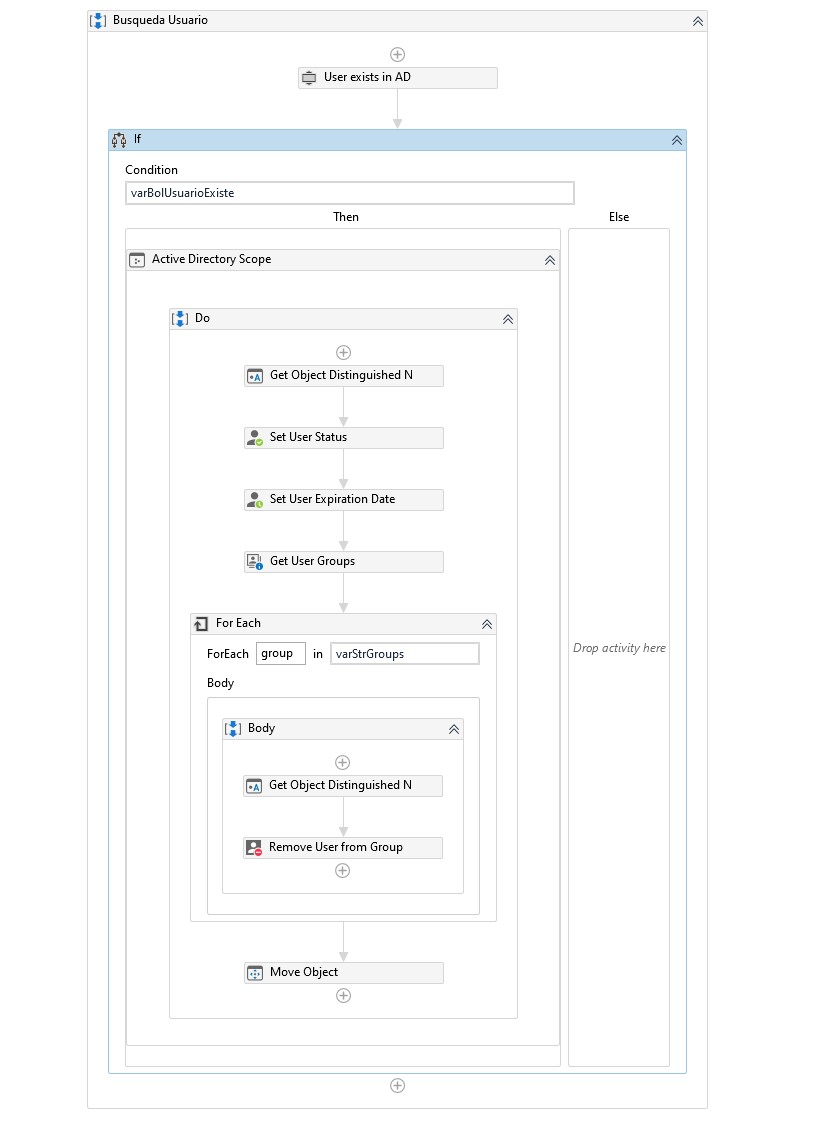
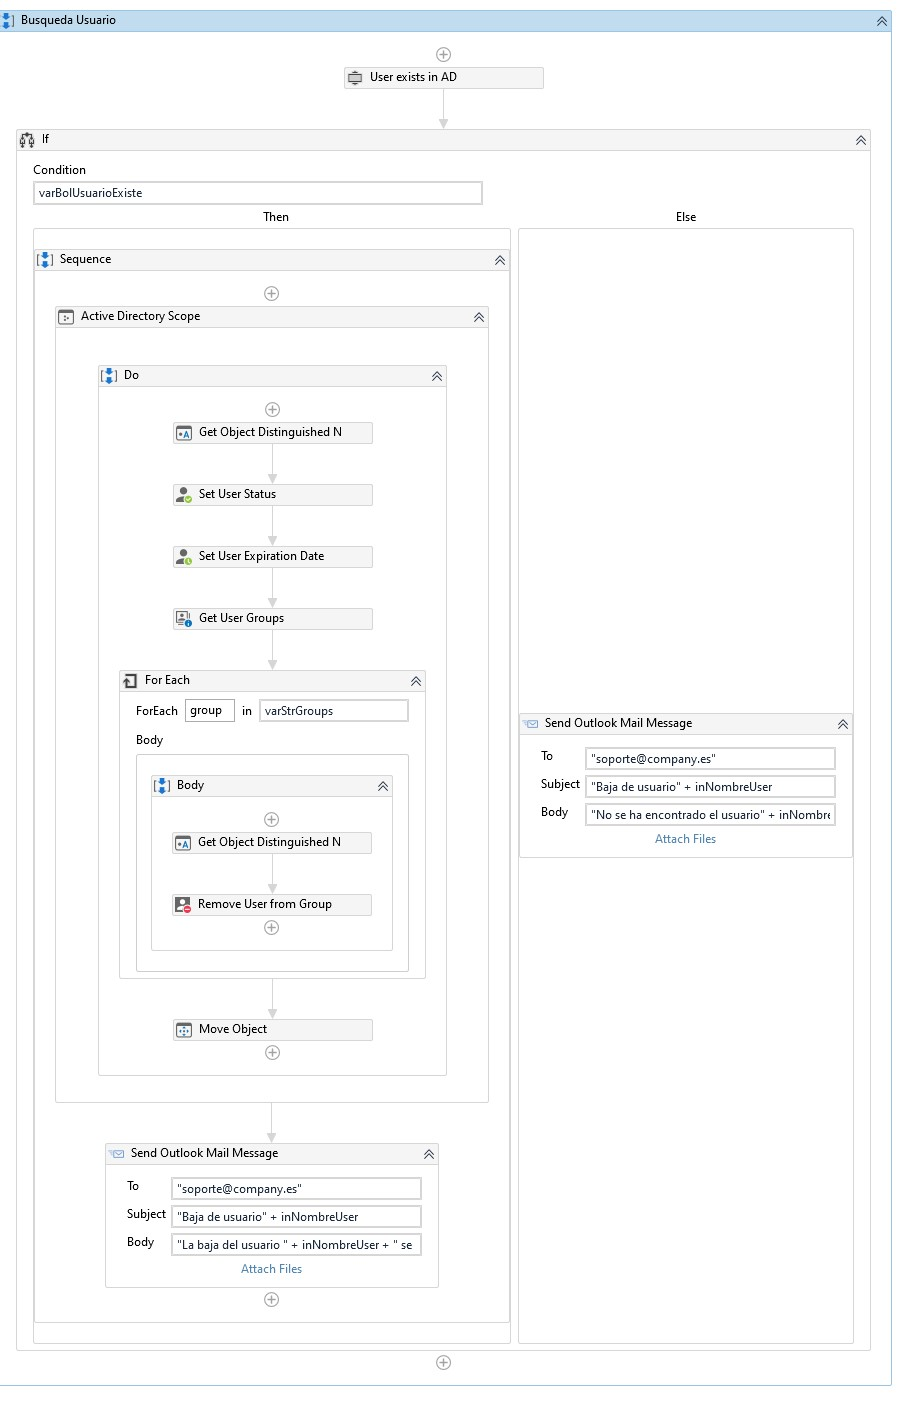
Se realizan cambios

diff --git a/bajaUsuario.xaml b/bajaUsuario.xaml
@@ -7,7 +7,7 @@
   <mva:VisualBasic.Settings>
     <x:Null />
   </mva:VisualBasic.Settings>
-  <sap:VirtualizedContainerService.HintSize>795,1164</sap:VirtualizedContainerService.HintSize>
+  <sap:VirtualizedContainerService.HintSize>887,1441</sap:VirtualizedContainerService.HintSize>
   <sap2010:WorkflowViewState.IdRef>Busqueda_usuario_1</sap2010:WorkflowViewState.IdRef>
   <TextExpression.NamespacesForImplementation>
     <scg:List x:TypeArguments="x:String" Capacity="26">
@@ -68,36 +68,16 @@
       <x:Boolean x:Key="ShouldExpandAll">True</x:Boolean>
     </scg:Dictionary>
   </sap:WorkflowViewStateService.ViewState>
-  <Sequence DisplayName="Busqueda Usuario" sap:VirtualizedContainerService.HintSize="621,1099" sap2010:WorkflowViewState.IdRef="Sequence_1">
+  <Sequence DisplayName="Busqueda Usuario" sap:VirtualizedContainerService.HintSize="897,1376" sap2010:WorkflowViewState.IdRef="Sequence_1">
     <Sequence.Variables>
-      <Variable x:TypeArguments="x:String" Name="varStrpassword">
-        <Variable.Default>
-          <mva:VisualBasicValue x:TypeArguments="x:String" ExpressionText="in_Config(&quot;PassDominio&quot;).ToString" />
-        </Variable.Default>
-      </Variable>
-      <Variable x:TypeArguments="ss:SecureString" Name="varStrpasswordSecure">
-        <Variable.Default>
-          <mva:VisualBasicValue x:TypeArguments="ss:SecureString" ExpressionText="(new System.Net.NetworkCredential(&quot;&quot;, varStrpassword)).SecurePassword" />
-        </Variable.Default>
-      </Variable>
-      <Variable x:TypeArguments="x:String" Name="varStrUsername">
-        <Variable.Default>
-          <mva:VisualBasicValue x:TypeArguments="x:String" ExpressionText="in_Config(&quot;UserDominio&quot;).ToString" />
-        </Variable.Default>
-      </Variable>
+      <Variable x:TypeArguments="x:String" Default="[in_Config(&quot;PassDominio&quot;).ToString]" Name="varStrpassword" />
+      <Variable x:TypeArguments="ss:SecureString" Default="[(new System.Net.NetworkCredential(&quot;&quot;, varStrpassword)).SecurePassword]" Name="varStrpasswordSecure" />
+      <Variable x:TypeArguments="x:String" Default="[in_Config(&quot;UserDominio&quot;).ToString]" Name="varStrUsername" />
       <Variable x:TypeArguments="x:Boolean" Name="existe" />
       <Variable x:TypeArguments="s:String[]" Name="grupos" />
       <Variable x:TypeArguments="x:String" Default="[Datetime.Now.Tostring(“MMMM”)]" Name="varStrMonthOU" />
-      <Variable x:TypeArguments="x:String" Name="varStrUsuariosBorrarOU">
-        <Variable.Default>
-          <mva:VisualBasicValue x:TypeArguments="x:String" ExpressionText="in_Config(&quot;UsuariosBorrarOU&quot;).ToString + varStrmonthOU" />
-        </Variable.Default>
-      </Variable>
-      <Variable x:TypeArguments="x:String" Name="varStrADServer">
-        <Variable.Default>
-          <mva:VisualBasicValue x:TypeArguments="x:String" ExpressionText="in_Config(&quot;ControladorDominio&quot;).ToString" />
-        </Variable.Default>
-      </Variable>
+      <Variable x:TypeArguments="x:String" Default="[in_Config(&quot;UsuariosBorrarOU&quot;).ToString + varStrmonthOU]" Name="varStrUsuariosBorrarOU" />
+      <Variable x:TypeArguments="x:String" Default="[in_Config(&quot;ControladorDominio&quot;).ToString]" Name="varStrADServer" />
       <Variable x:TypeArguments="x:Boolean" Name="varBolUsuarioExiste" />
       <Variable x:TypeArguments="x:String" Name="varStrUserDistName" />
       <Variable x:TypeArguments="s:String[]" Name="varStrGroups" />
@@ -107,52 +87,71 @@
         <x:Boolean x:Key="IsExpanded">True</x:Boolean>
       </scg:Dictionary>
     </sap:WorkflowViewStateService.ViewState>
-    <a:UserExistsInAD UserEmail="{x:Null}" DisplayName="User exists in AD" DomainName="[varStrADServer]" sap:VirtualizedContainerService.HintSize="579,22" sap2010:WorkflowViewState.IdRef="UserExistsInAD_1" Result="[varBolUsuarioExiste]" UserName="[inNombreUser]" />
-    <If Condition="[varBolUsuarioExiste]" sap:VirtualizedContainerService.HintSize="579,945" sap2010:WorkflowViewState.IdRef="If_1">
+    <a:UserExistsInAD UserEmail="{x:Null}" DisplayName="User exists in AD" DomainName="[varStrADServer]" sap:VirtualizedContainerService.HintSize="855,22" sap2010:WorkflowViewState.IdRef="UserExistsInAD_1" Result="[varBolUsuarioExiste]" UserName="[inNombreUser]" />
+    <If Condition="[varBolUsuarioExiste]" sap:VirtualizedContainerService.HintSize="855,1222" sap2010:WorkflowViewState.IdRef="If_1">
       <If.Then>
-        <p:ActiveDirectoryScope ActiveDirectoryServer="[varStrADServer]" DisplayName="Active Directory Scope" sap:VirtualizedContainerService.HintSize="434,797" sap2010:WorkflowViewState.IdRef="ActiveDirectoryScope_1" Password="[varStrpasswordSecure]" Username="[varStrUsername]">
-          <p:ActiveDirectoryScope.Body>
-            <ActivityAction x:TypeArguments="uas:ActiveDirectoryService">
-              <ActivityAction.Argument>
-                <DelegateInArgument x:TypeArguments="uas:ActiveDirectoryService" Name="ActiveDirectoryScopeConnectionName" />
-              </ActivityAction.Argument>
-              <Sequence DisplayName="Do" sap:VirtualizedContainerService.HintSize="349,711" sap2010:WorkflowViewState.IdRef="Sequence_3">
-                <sap:WorkflowViewStateService.ViewState>
-                  <scg:Dictionary x:TypeArguments="x:String, x:Object">
-                    <x:Boolean x:Key="IsExpanded">True</x:Boolean>
-                  </scg:Dictionary>
-                </sap:WorkflowViewStateService.ViewState>
-                <p:GetObjectDistinguishedName DisplayName="Get Object Distinguished Name" DistinguishedName="[varStrUserDistName]" sap:VirtualizedContainerService.HintSize="307,22" sap2010:WorkflowViewState.IdRef="GetObjectDistinguishedName_2" SAMAccountName="[inNombreUser]" />
-                <p:SetUserStatus DisplayName="Set User Status" DistinguishedName="[varStrUserDistName]" sap:VirtualizedContainerService.HintSize="307,22" sap2010:WorkflowViewState.IdRef="SetUserStatus_1" Status="Disabled" />
-                <p:SetUserExpirationDate DisplayName="Set User Expiration Date" DistinguishedName="[inNombreUser]" ExpirationDate="[in_fechaFinal]" sap:VirtualizedContainerService.HintSize="307,22" sap2010:WorkflowViewState.IdRef="SetUserExpirationDate_1" />
-                <p:GetUserGroups DisplayName="Get User Groups" Groups="[varStrGroups]" sap:VirtualizedContainerService.HintSize="307,22" sap2010:WorkflowViewState.IdRef="GetUserGroups_1" UserDistinguishedName="[varStrUserDistName]" />
-                <ui:ForEach x:TypeArguments="x:Object" CurrentIndex="{x:Null}" DisplayName="For Each" sap:VirtualizedContainerService.HintSize="307,309" sap2010:WorkflowViewState.IdRef="ForEach`1_1" Values="[varStrGroups]">
-                  <ui:ForEach.Body>
-                    <ActivityAction x:TypeArguments="x:Object">
-                      <ActivityAction.Argument>
-                        <DelegateInArgument x:TypeArguments="x:Object" Name="group" />
-                      </ActivityAction.Argument>
-                      <Sequence DisplayName="Body" sap:VirtualizedContainerService.HintSize="242,176" sap2010:WorkflowViewState.IdRef="Sequence_5">
-                        <Sequence.Variables>
-                          <Variable x:TypeArguments="x:String" Name="varStrNombreDistGroup" />
-                        </Sequence.Variables>
-                        <sap:WorkflowViewStateService.ViewState>
-                          <scg:Dictionary x:TypeArguments="x:String, x:Object">
-                            <x:Boolean x:Key="IsExpanded">True</x:Boolean>
-                          </scg:Dictionary>
-                        </sap:WorkflowViewStateService.ViewState>
-                        <p:GetObjectDistinguishedName DisplayName="Get Object Distinguished Name" DistinguishedName="[varStrNombreDistGroup]" sap:VirtualizedContainerService.HintSize="200,22" sap2010:WorkflowViewState.IdRef="GetObjectDistinguishedName_3" SAMAccountName="[group.ToString]" />
-                        <p:RemoveUserFromGroup DisplayName="Remove User from Group" GroupDistinguishedName="[varStrNombreDistGroup]" sap:VirtualizedContainerService.HintSize="200,22" sap2010:WorkflowViewState.IdRef="RemoveUserFromGroup_1" UserDistinguishedName="[varStrUserDistName]" />
-                      </Sequence>
-                    </ActivityAction>
-                  </ui:ForEach.Body>
-                </ui:ForEach>
-                <p:MoveObject DisplayName="Move Object" sap:VirtualizedContainerService.HintSize="307,22" sap2010:WorkflowViewState.IdRef="MoveObject_1" NewParentDistinguishedName="[varStrUsuariosBorrarOU]" ObjectDistinguishedName="[varStrUserDistName]" />
-              </Sequence>
-            </ActivityAction>
-          </p:ActiveDirectoryScope.Body>
-        </p:ActiveDirectoryScope>
+        <Sequence sap:VirtualizedContainerService.HintSize="476,1074" sap2010:WorkflowViewState.IdRef="Sequence_6">
+          <sap:WorkflowViewStateService.ViewState>
+            <scg:Dictionary x:TypeArguments="x:String, x:Object">
+              <x:Boolean x:Key="IsExpanded">True</x:Boolean>
+            </scg:Dictionary>
+          </sap:WorkflowViewStateService.ViewState>
+          <p:ActiveDirectoryScope ActiveDirectoryServer="[varStrADServer]" DisplayName="Active Directory Scope" sap:VirtualizedContainerService.HintSize="434,797" sap2010:WorkflowViewState.IdRef="ActiveDirectoryScope_1" Password="[varStrpasswordSecure]" Username="[varStrUsername]">
+            <p:ActiveDirectoryScope.Body>
+              <ActivityAction x:TypeArguments="uas:ActiveDirectoryService">
+                <ActivityAction.Argument>
+                  <DelegateInArgument x:TypeArguments="uas:ActiveDirectoryService" Name="ActiveDirectoryScopeConnectionName" />
+                </ActivityAction.Argument>
+                <Sequence DisplayName="Do" sap:VirtualizedContainerService.HintSize="349,711" sap2010:WorkflowViewState.IdRef="Sequence_3">
+                  <sap:WorkflowViewStateService.ViewState>
+                    <scg:Dictionary x:TypeArguments="x:String, x:Object">
+                      <x:Boolean x:Key="IsExpanded">True</x:Boolean>
+                    </scg:Dictionary>
+                  </sap:WorkflowViewStateService.ViewState>
+                  <p:GetObjectDistinguishedName DisplayName="Get Object Distinguished Name" DistinguishedName="[varStrUserDistName]" sap:VirtualizedContainerService.HintSize="307,22" sap2010:WorkflowViewState.IdRef="GetObjectDistinguishedName_2" SAMAccountName="[inNombreUser]" />
+                  <p:SetUserStatus DisplayName="Set User Status" DistinguishedName="[varStrUserDistName]" sap:VirtualizedContainerService.HintSize="307,22" sap2010:WorkflowViewState.IdRef="SetUserStatus_1" Status="Disabled" />
+                  <p:SetUserExpirationDate DisplayName="Set User Expiration Date" DistinguishedName="[inNombreUser]" ExpirationDate="[in_fechaFinal]" sap:VirtualizedContainerService.HintSize="307,22" sap2010:WorkflowViewState.IdRef="SetUserExpirationDate_1" />
+                  <p:GetUserGroups DisplayName="Get User Groups" Groups="[varStrGroups]" sap:VirtualizedContainerService.HintSize="307,22" sap2010:WorkflowViewState.IdRef="GetUserGroups_1" UserDistinguishedName="[varStrUserDistName]" />
+                  <ui:ForEach x:TypeArguments="x:Object" CurrentIndex="{x:Null}" DisplayName="For Each" sap:VirtualizedContainerService.HintSize="307,309" sap2010:WorkflowViewState.IdRef="ForEach`1_1" Values="[varStrGroups]">
+                    <ui:ForEach.Body>
+                      <ActivityAction x:TypeArguments="x:Object">
+                        <ActivityAction.Argument>
+                          <DelegateInArgument x:TypeArguments="x:Object" Name="group" />
+                        </ActivityAction.Argument>
+                        <Sequence DisplayName="Body" sap:VirtualizedContainerService.HintSize="242,176" sap2010:WorkflowViewState.IdRef="Sequence_5">
+                          <Sequence.Variables>
+                            <Variable x:TypeArguments="x:String" Name="varStrNombreDistGroup" />
+                          </Sequence.Variables>
+                          <sap:WorkflowViewStateService.ViewState>
+                            <scg:Dictionary x:TypeArguments="x:String, x:Object">
+                              <x:Boolean x:Key="IsExpanded">True</x:Boolean>
+                            </scg:Dictionary>
+                          </sap:WorkflowViewStateService.ViewState>
+                          <p:GetObjectDistinguishedName DisplayName="Get Object Distinguished Name" DistinguishedName="[varStrNombreDistGroup]" sap:VirtualizedContainerService.HintSize="200,22" sap2010:WorkflowViewState.IdRef="GetObjectDistinguishedName_3" SAMAccountName="[group.ToString]" />
+                          <p:RemoveUserFromGroup DisplayName="Remove User from Group" GroupDistinguishedName="[varStrNombreDistGroup]" sap:VirtualizedContainerService.HintSize="200,22" sap2010:WorkflowViewState.IdRef="RemoveUserFromGroup_1" UserDistinguishedName="[varStrUserDistName]" />
+                        </Sequence>
+                      </ActivityAction>
+                    </ui:ForEach.Body>
+                  </ui:ForEach>
+                  <p:MoveObject DisplayName="Move Object" sap:VirtualizedContainerService.HintSize="307,22" sap2010:WorkflowViewState.IdRef="MoveObject_1" NewParentDistinguishedName="[varStrUsuariosBorrarOU]" ObjectDistinguishedName="[varStrUserDistName]" />
+                </Sequence>
+              </ActivityAction>
+            </p:ActiveDirectoryScope.Body>
+          </p:ActiveDirectoryScope>
+          <ui:SendOutlookMail Bcc="{x:Null}" Cc="{x:Null}" MailMessage="{x:Null}" TimeoutMS="{x:Null}" Account="DSI.GOSC.CSU.OP7@enagas.es" Body="[&quot;La baja del usuario &quot; + inNombreUser + &quot; se ha realizado correctamente&quot;]" DisplayName="Send Outlook Mail Message" sap:VirtualizedContainerService.HintSize="434,145" sap2010:WorkflowViewState.IdRef="SendOutlookMail_1" IsBodyHtml="False" IsDraft="False" Subject="[&quot;Baja de usuario&quot; + inNombreUser]" To="soporte@company.es">
+            <ui:SendOutlookMail.Files>
+              <scg:List x:TypeArguments="InArgument(x:String)" Capacity="0" />
+            </ui:SendOutlookMail.Files>
+          </ui:SendOutlookMail>
+        </Sequence>
       </If.Then>
+      <If.Else>
+        <ui:SendOutlookMail Bcc="{x:Null}" Cc="{x:Null}" MailMessage="{x:Null}" TimeoutMS="{x:Null}" Account="DSI.GOSC.CSU.OP7@enagas.es" Body="[&quot;No se ha encontrado el usuario&quot; + inNombreUser]" DisplayName="Send Outlook Mail Message" sap:VirtualizedContainerService.HintSize="334,145" sap2010:WorkflowViewState.IdRef="SendOutlookMail_2" IsBodyHtml="False" IsDraft="False" Subject="[&quot;Baja de usuario&quot; + inNombreUser]" To="soporte@company.es">
+          <ui:SendOutlookMail.Files>
+            <scg:List x:TypeArguments="InArgument(x:String)" Capacity="0" />
+          </ui:SendOutlookMail.Files>
+        </ui:SendOutlookMail>
+      </If.Else>
     </If>
   </Sequence>
 </Activity>

diff --git a/InitAllSettings.xaml b/InitAllSettings.xaml
@@ -1,13 +1,11 @@
-<Activity mc:Ignorable="sap sap2010" x:Class="InitiAllSettings" this:InitiAllSettings.in_ConfigFile="Data\Config.xlsx" this:InitiAllSettings.in_ConfigSheets="[{&quot;Settings&quot;,&quot;Constants&quot;}]" xmlns="http://schemas.microsoft.com/netfx/2009/xaml/activities" xmlns:mc="http://schemas.openxmlformats.org/markup-compatibility/2006" xmlns:mva="clr-namespace:Microsoft.VisualBasic.Activities;assembly=System.Activities" xmlns:s="clr-namespace:System;assembly=mscorlib" xmlns:sap="http://schemas.microsoft.com/netfx/2009/xaml/activities/presentation" xmlns:sap2010="http://schemas.microsoft.com/netfx/2010/xaml/activities/presentation" xmlns:scg="clr-namespace:System.Collections.Generic;assembly=mscorlib" xmlns:sco="clr-namespace:System.Collections.ObjectModel;assembly=mscorlib" xmlns:sd="clr-namespace:System.Data;assembly=System.Data" xmlns:this="clr-namespace:" xmlns:ui="http://schemas.uipath.com/workflow/activities" xmlns:x="http://schemas.microsoft.com/winfx/2006/xaml">
+<Activity mc:Ignorable="sap sap2010" x:Class="InitiAllSettings" xmlns="http://schemas.microsoft.com/netfx/2009/xaml/activities" xmlns:mc="http://schemas.openxmlformats.org/markup-compatibility/2006" xmlns:mva="clr-namespace:Microsoft.VisualBasic.Activities;assembly=System.Activities" xmlns:sap="http://schemas.microsoft.com/netfx/2009/xaml/activities/presentation" xmlns:sap2010="http://schemas.microsoft.com/netfx/2010/xaml/activities/presentation" xmlns:scg="clr-namespace:System.Collections.Generic;assembly=mscorlib" xmlns:sco="clr-namespace:System.Collections.ObjectModel;assembly=mscorlib" xmlns:sd="clr-namespace:System.Data;assembly=System.Data" xmlns:ui="http://schemas.uipath.com/workflow/activities" xmlns:x="http://schemas.microsoft.com/winfx/2006/xaml">
   <x:Members>
-    <x:Property Name="in_ConfigFile" Type="InArgument(x:String)" />
-    <x:Property Name="in_ConfigSheets" Type="InArgument(s:String[])" />
     <x:Property Name="out_Config" Type="OutArgument(scg:Dictionary(x:String, x:Object))" />
   </x:Members>
   <mva:VisualBasic.Settings>
     <x:Null />
   </mva:VisualBasic.Settings>
-  <sap:VirtualizedContainerService.HintSize>675.2,1046.4</sap:VirtualizedContainerService.HintSize>
+  <sap:VirtualizedContainerService.HintSize>795,771</sap:VirtualizedContainerService.HintSize>
   <sap2010:WorkflowViewState.IdRef>GetAllSettings_1</sap2010:WorkflowViewState.IdRef>
   <TextExpression.NamespacesForImplementation>
     <sco:Collection x:TypeArguments="x:String">
@@ -58,70 +56,58 @@
       <AssemblyReference>UiPath.Excel.Activities</AssemblyReference>
       <AssemblyReference>UiPath.System.Activities</AssemblyReference>
       <AssemblyReference>UiPath.UiAutomation.Activities</AssemblyReference>
+      <AssemblyReference>System.ValueTuple</AssemblyReference>
     </sco:Collection>
   </TextExpression.ReferencesForImplementation>
-  <Sequence sap2010:Annotation.AnnotationText="This workflow outputs a settings Dictionary with key/value pairs to be used in the project. Settings are read from local config file then fetched from Orchestrator assets. &#xA;Assets will overwrite the config file settings" DisplayName="Get All Settings" sap:VirtualizedContainerService.HintSize="635.2,966.4" sap2010:WorkflowViewState.IdRef="Sequence_2">
+  <Sequence sap2010:Annotation.AnnotationText="Leemos todos los settings del archivo Config y los introducimos en un diccionario" DisplayName="Get All Settings" sap:VirtualizedContainerService.HintSize="576,706" sap2010:WorkflowViewState.IdRef="Sequence_6">
+    <Sequence.Variables>
+      <Variable x:TypeArguments="x:String" Name="in_ConfigFile">
+        <Variable.Default>
+          <Literal x:TypeArguments="x:String">Data\Config.xlsx</Literal>
+        </Variable.Default>
+      </Variable>
+      <Variable x:TypeArguments="x:String" Name="in_ConfigSheet">
+        <Variable.Default>
+          <Literal x:TypeArguments="x:String">Settings</Literal>
+        </Variable.Default>
+      </Variable>
+      <Variable x:TypeArguments="sd:DataTable" Name="configTable" />
+    </Sequence.Variables>
     <sap:WorkflowViewStateService.ViewState>
       <scg:Dictionary x:TypeArguments="x:String, x:Object">
         <x:Boolean x:Key="IsExpanded">True</x:Boolean>
         <x:Boolean x:Key="IsAnnotationDocked">True</x:Boolean>
       </scg:Dictionary>
     </sap:WorkflowViewStateService.ViewState>
-    <Assign DisplayName="New dictionary" sap:VirtualizedContainerService.HintSize="596.8,60" sap2010:WorkflowViewState.IdRef="Assign_1">
+    <Assign sap:VirtualizedContainerService.HintSize="534,60" sap2010:WorkflowViewState.IdRef="Assign_16">
       <Assign.To>
         <OutArgument x:TypeArguments="scg:Dictionary(x:String, x:Object)">[out_Config]</OutArgument>
       </Assign.To>
       <Assign.Value>
-        <InArgument x:TypeArguments="scg:Dictionary(x:String, x:Object)">[new Dictionary(of String, object)]</InArgument>
+        <InArgument x:TypeArguments="scg:Dictionary(x:String, x:Object)">[New Dictionary(Of String,Object)]</InArgument>
       </Assign.Value>
     </Assign>
-    <ui:ForEach x:TypeArguments="x:String" CurrentIndex="{x:Null}" DisplayName="For each sheet &lt;string&gt;" sap:VirtualizedContainerService.HintSize="596.8,713.6" sap2010:WorkflowViewState.IdRef="ForEach`1_3" Values="[in_configSheets]">
-      <ui:ForEach.Body>
-        <ActivityAction x:TypeArguments="x:String">
+    <ui:ReadRange Range="{x:Null}" AddHeaders="True" DataTable="[configTable]" DisplayName="Read Range" sap:VirtualizedContainerService.HintSize="534,87" sap2010:WorkflowViewState.IdRef="ReadRange_3" SheetName="[in_ConfigSheet]" WorkbookPath="[in_ConfigFile]" />
+    <ui:ForEachRow CurrentIndex="{x:Null}" DataTable="[configTable]" DisplayName="For each row" sap:VirtualizedContainerService.HintSize="534,356" sap2010:WorkflowViewState.IdRef="ForEachRow_3">
+      <ui:ForEachRow.Body>
+        <ActivityAction x:TypeArguments="sd:DataRow">
           <ActivityAction.Argument>
-            <DelegateInArgument x:TypeArguments="x:String" Name="sheet" />
+            <DelegateInArgument x:TypeArguments="sd:DataRow" Name="row" />
           </ActivityAction.Argument>
-          <Sequence DisplayName="Get Local Settings" sap:VirtualizedContainerService.HintSize="564.8,579.2" sap2010:WorkflowViewState.IdRef="Sequence_5">
-            <Sequence.Variables>
-              <Variable x:TypeArguments="sd:DataTable" Name="configTable" />
-            </Sequence.Variables>
-            <sap:WorkflowViewStateService.ViewState>
-              <scg:Dictionary x:TypeArguments="x:String, x:Object">
-                <x:Boolean x:Key="IsExpanded">True</x:Boolean>
-                <x:Boolean x:Key="IsPinned">False</x:Boolean>
-              </scg:Dictionary>
-            </sap:WorkflowViewStateService.ViewState>
-            <ui:ReadRange Range="{x:Null}" AddHeaders="True" DataTable="[configTable]" DisplayName="Read range settings" sap:VirtualizedContainerService.HintSize="526.4,88" sap2010:WorkflowViewState.IdRef="ReadRange_2" SheetName="[sheet]" WorkbookPath="[in_configFile]" />
-            <ui:ForEachRow CurrentIndex="{x:Null}" DataTable="[configTable]" DisplayName="For each row" sap:VirtualizedContainerService.HintSize="526.4,358.4" sap2010:WorkflowViewState.IdRef="ForEachRow_2">
-              <ui:ForEachRow.Body>
-                <ActivityAction x:TypeArguments="sd:DataRow">
-                  <ActivityAction.Argument>
-                    <DelegateInArgument x:TypeArguments="sd:DataRow" Name="row" />
-                  </ActivityAction.Argument>
-                  <If Condition="[NOT String.IsNullOrEmpty(row(&quot;Name&quot;).ToString.Trim)]" sap:VirtualizedContainerService.HintSize="480,209.6" sap2010:WorkflowViewState.IdRef="If_1">
-                    <If.Then>
-                      <Assign DisplayName="Add key/value pair" sap:VirtualizedContainerService.HintSize="259.2,60" sap2010:WorkflowViewState.IdRef="Assign_15">
-                        <Assign.To>
-                          <OutArgument x:TypeArguments="x:Object">[out_Config(row("Name").ToString.Trim)]</OutArgument>
-                        </Assign.To>
-                        <Assign.Value>
-                          <InArgument x:TypeArguments="x:Object">[row("Value")]</InArgument>
-                        </Assign.Value>
-                      </Assign>
-                    </If.Then>
-                  </If>
-                </ActivityAction>
-              </ui:ForEachRow.Body>
-            </ui:ForEachRow>
-          </Sequence>
+          <If Condition="[NOT String.IsNullOrEmpty(row(&quot;Name&quot;).ToString.Trim)]" sap:VirtualizedContainerService.HintSize="484,208" sap2010:WorkflowViewState.IdRef="If_2">
+            <If.Then>
+              <Assign DisplayName="Add key/value pair" sap:VirtualizedContainerService.HintSize="262,60" sap2010:WorkflowViewState.IdRef="Assign_17">
+                <Assign.To>
+                  <OutArgument x:TypeArguments="x:Object">[out_Config(row("Name").ToString.Trim)]</OutArgument>
+                </Assign.To>
+                <Assign.Value>
+                  <InArgument x:TypeArguments="x:Object">[row("Value")]</InArgument>
+                </Assign.Value>
+              </Assign>
+            </If.Then>
+          </If>
         </ActivityAction>
-      </ui:ForEach.Body>
-      <sap:WorkflowViewStateService.ViewState>
-        <scg:Dictionary x:TypeArguments="x:String, x:Object">
-          <x:Boolean x:Key="IsExpanded">True</x:Boolean>
-          <x:Boolean x:Key="IsPinned">False</x:Boolean>
-        </scg:Dictionary>
-      </sap:WorkflowViewStateService.ViewState>
-    </ui:ForEach>
+      </ui:ForEachRow.Body>
+    </ui:ForEachRow>
   </Sequence>
 </Activity>
